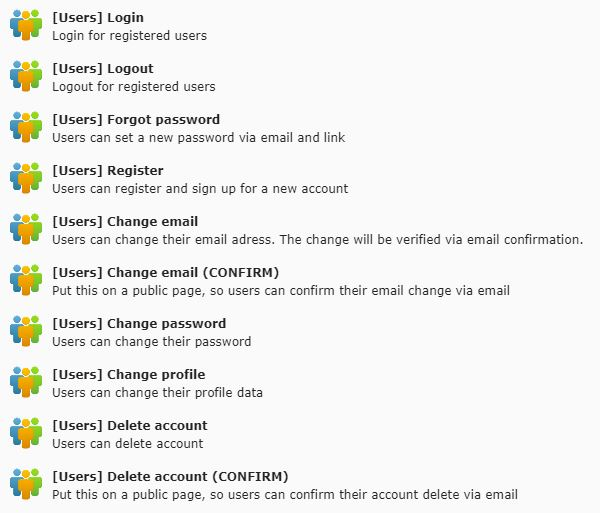
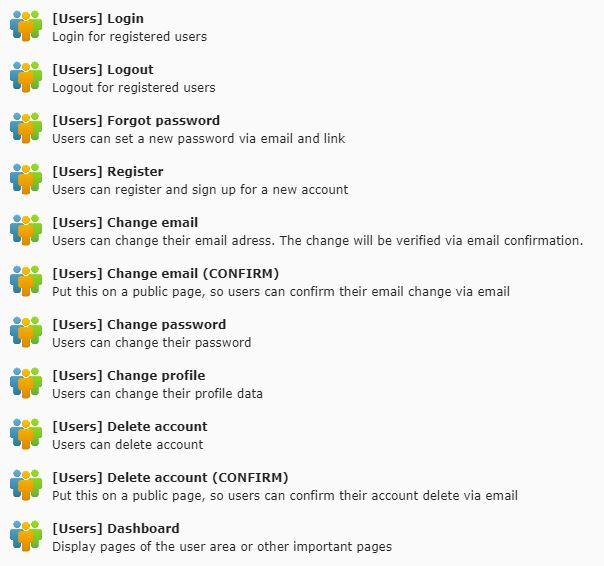
Modified   Documentation/overview_plugins.JPG Modified   README.md Add        Documentation/dashboard.JPG

Changed region(s): [[0.0, 0.0, 0.96, 0.9981]]

diff --git a/README.md b/README.md
@@ -185,6 +185,8 @@ The Dashboard plugin displays pages in the form of a dashboard. It can be insert
 * Edit plugin settings
 * Change settings on every page you add to the dashboard. Go to the desired page and edit settings in "Users" tab. Every page now has a users tab.
 
+![2](Documentation/dashboard.JPG)
+
 ### Plugin: Delete account
 
 With this plugin the user can delete his account: The user receives an e-mail with a confirmation link. If the user clicks on the link in the e-mail, the account will be deleted immediately.
